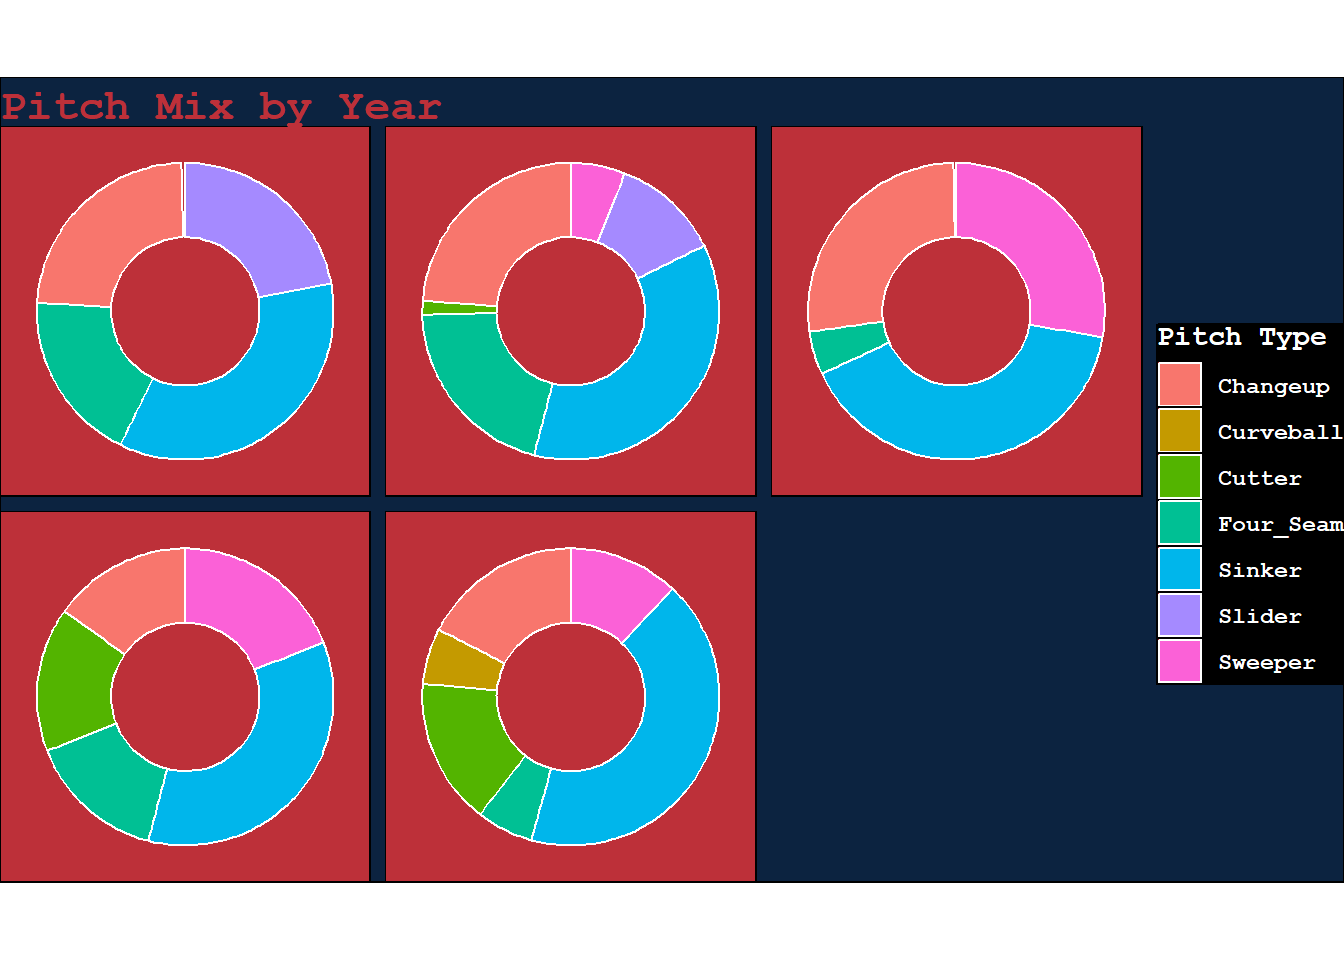
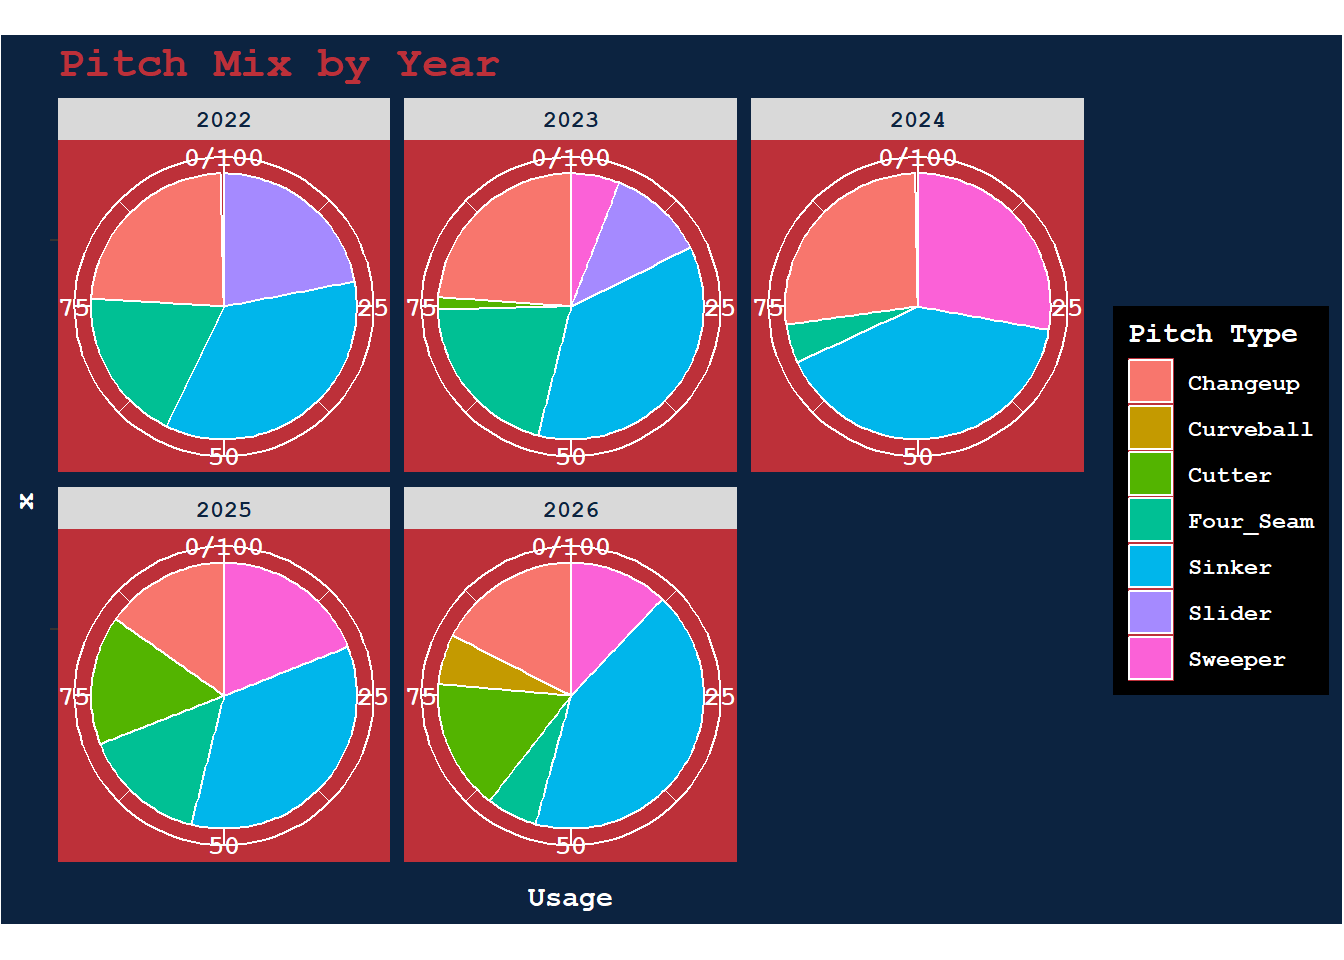
update bello article
Change pie chart, NYY chart, TOC color

diff --git a/docs/posts/bello_article_final.html b/docs/posts/bello_article_final.html
@@ -137,6 +137,11 @@ gtag('config', 'G-GGNXXW6FWM', { 'anonymize_ip': true});
    
   <ul class="collapse">
   <li><a href="#brayan-bello-has-been-sent-down-to-aaa-what-is-the-cause-for-his-disastrous-season-and-will-he-contribute-in-boston-in-2026" id="toc-brayan-bello-has-been-sent-down-to-aaa-what-is-the-cause-for-his-disastrous-season-and-will-he-contribute-in-boston-in-2026" class="nav-link active" data-scroll-target="#brayan-bello-has-been-sent-down-to-aaa-what-is-the-cause-for-his-disastrous-season-and-will-he-contribute-in-boston-in-2026">Brayan Bello has been sent down to AAA, what is the cause for his disastrous season and will he contribute in Boston in 2026?</a></li>
+  <li><a href="#the-yankee-killer" id="toc-the-yankee-killer" class="nav-link" data-scroll-target="#the-yankee-killer">The Yankee Killer</a></li>
+  <li><a href="#changeup-decay" id="toc-changeup-decay" class="nav-link" data-scroll-target="#changeup-decay">Changeup Decay</a></li>
+  <li><a href="#loss-of-command" id="toc-loss-of-command" class="nav-link" data-scroll-target="#loss-of-command">Loss of Command</a></li>
+  <li><a href="#an-ever-changing-mix" id="toc-an-ever-changing-mix" class="nav-link" data-scroll-target="#an-ever-changing-mix">An Ever Changing Mix</a></li>
+  <li><a href="#how-will-brayan-come-back-to-boston" id="toc-how-will-brayan-come-back-to-boston" class="nav-link" data-scroll-target="#how-will-brayan-come-back-to-boston">How will Brayan come back to Boston?</a></li>
   </ul>
 </nav>
     </div>
@@ -176,22 +181,44 @@ gtag('config', 'G-GGNXXW6FWM', { 'anonymize_ip': true});
 
 <section id="brayan-bello-has-been-sent-down-to-aaa-what-is-the-cause-for-his-disastrous-season-and-will-he-contribute-in-boston-in-2026" class="level2">
 <h2 class="anchored" data-anchor-id="brayan-bello-has-been-sent-down-to-aaa-what-is-the-cause-for-his-disastrous-season-and-will-he-contribute-in-boston-in-2026">Brayan Bello has been sent down to AAA, what is the cause for his disastrous season and will he contribute in Boston in 2026?</h2>
-<style>
-  body {
-    background-color: #0C2340; /* A light blue, for example */
-    font-family: 'Roboto', sans-serif;
-  }
-  
-  main.content {
-  background: rgba(255, 255, 255, 0.92);
-  padding: 2rem;
-  border-radius: 16px;
-  box-shadow: 0 8px 24px rgba(0,0,0,0.12);
-  max-width: 900px;     /* controls how wide the text block is */
-  margin: 2rem auto;    /* centers the rectangle */
+<style> 
+body { 
+  background-color: #0C2340; 
+  font-family: 'Roboto', sans-serif; 
+} 
+
+main.content { 
+  background: rgba(255, 255, 255, 0.92); 
+  padding: 2rem; 
+  border-radius: 16px; 
+  box-shadow: 0 8px 24px rgba(0,0,0,0.12); 
+  max-width: 900px; 
+  margin: 2rem auto; 
+}
+
+/* --- Added TOC Color Controls --- */
+#TOC, .toc-actions, #quarto-sidebar-toc-left {
+  color: #white !important; /* Main TOC text color */
+}
+
+#TOC a, .toc-actions a {
+  color: white !important; /* TOC links text color */
+  text-decoration: none;
+}
+
+#TOC a:hover, .toc-actions a:hover {
+  color: #BD3039 !important; /* Changes to red when you hover your mouse over it */
+}
+
+#TOC .active {
+  color: #BD3039 !important; /* Highlights active section in red as you scroll */
+  font-weight: bold;
 }
 </style>
 <p>The Boston Red Sox agreed to a 6-year extension, totalling $55 million with Brayan Bello prior to the 2024 season. Leading up to this extension, Bello was one of the most promising young arms on a Red Sox staff amongst a hodgepodge of older arms on one-year deals like Corey Kluber and James Paxton. The promise was there for the righty and he quickly worked his way into the hearts of the Red Sox faithful.</p>
+</section>
+<section id="the-yankee-killer" class="level2">
+<h2 class="anchored" data-anchor-id="the-yankee-killer">The Yankee Killer</h2>
 <p>In his first two years in the league, Bello seemed to relish getting the ball versus the most hated team in Boston, the New York Yankees. In his first 2 seasons, Bello went toe-to-toe with the Evil Empire five times and held an ERA of just 1.45 in those games. In 4 of those 5 starts he went +6 innings of allowing just 1 earned run. The excitement around Bello was palpable and Red Sox fans were itching for a dominant starter in the age when Chris Sale seemed to never get healthy. After the 2021 ALCS run, the Red Sox team ERA over the next two seasons was the 3rd highest in the American League, leading only the A’s and Royals. The newfound Yankee Killer had all of Boston behind him; some Bostonians even crowned him as the second coming of Pedro Martinez.</p>
 <div class="cell">
 <div class="cell-output-display">
@@ -212,6 +239,9 @@ gtag('config', 'G-GGNXXW6FWM', { 'anonymize_ip': true});
 </div>
 </div>
 </div>
+</section>
+<section id="changeup-decay" class="level2">
+<h2 class="anchored" data-anchor-id="changeup-decay">Changeup Decay</h2>
 <p>Bello’s changeup was a marvel when he was called up from Worcester in 2022. The pitch induced a swing-and-miss 44% of the time compared to the 30% league average. He allowed hard hit balls only once in a blue moon, coming at a rate of 16%, 6th lowest in MLB. Now as we progress to 2026, that changeup has become a husk of its former self. The 2026 whiff rate generated from the pitch is just 24%, well below the league average.</p>
 <div class="cell">
 <div class="cell-output-display">
@@ -232,6 +262,9 @@ gtag('config', 'G-GGNXXW6FWM', { 'anonymize_ip': true});
 </div>
 </div>
 </div>
+</section>
+<section id="loss-of-command" class="level2">
+<h2 class="anchored" data-anchor-id="loss-of-command">Loss of Command</h2>
 <p>The sinker for Bello is thrown around 40% of the time in 2026, but he does not seem to be comfortable throwing it. His location of the pitch is the worst of his career, only throwing it in the zone 51% of the time. Of sinkers thrown as the first pitch of a plate appearance, Bello has only thrown 75% in the zone. Which sounds decent enough, but most pitchers are in the zone 83% of the time throwing a first pitch sinker. A steady decrease in command of his most thrown pitch is a major warning sign for Bello’s productivity in the future.</p>
 <div class="cell">
 <div class="cell-output-display">
@@ -242,7 +275,10 @@ gtag('config', 'G-GGNXXW6FWM', { 'anonymize_ip': true});
 </div>
 </div>
 </div>
-<p>On June 5th, Craig Breslow said that he hopes that Brayan can find his love for baseball again. This was soon followed by Bello stating that he has, and always will, love the game. This disconnect between the Red Sox Chief Baseball Officer goes further than these dichotic statements. When Breslow took over the Red Sox front office in 2024, Bello’s whole approach and pitch mix changed. His four-seamer was dropped from his arsenal in favor of a sweeper that surpassed the usage of his changeup to become his number two pitch. In 2025 and 2026 the changeup was thrown the least of his career, in favor of a newly introduced cutter and the sweeper from 2024. All of this tinkering under Breslow surely led to some soul-searching for the young right-handed pitcher who identified so much with his changeup in his days on the farm. The lack of identity for Bello may play a part in his mental struggle to get control of his ever-changing arsenal.</p>
+</section>
+<section id="an-ever-changing-mix" class="level2">
+<h2 class="anchored" data-anchor-id="an-ever-changing-mix">An Ever Changing Mix</h2>
+<p>On June 5th, Craig Breslow said that he hopes that Brayan can find his love for baseball again. This was soon followed by Bello stating that he has, and will always, love the game. This disconnect between the Red Sox Chief Baseball Officer goes further than these dichotic statements. When Breslow took over the Red Sox front office in 2024, Bello’s whole approach and pitch mix changed. His four-seamer was dropped from his arsenal in favor of a sweeper that surpassed the usage of his changeup to become his number two pitch. In 2025 and 2026 the changeup was thrown the least of his career, in favor of a newly introduced cutter and the sweeper from 2024. All of this tinkering under Breslow surely led to some soul-searching for the young right-handed pitcher who identified so much with his changeup in his days on the farm. The lack of identity for Bello may play a part in his mental struggle to get control of his ever-changing arsenal.</p>
 <div class="cell">
 <div class="cell-output-display">
 <div>
@@ -252,7 +288,10 @@ gtag('config', 'G-GGNXXW6FWM', { 'anonymize_ip': true});
 </div>
 </div>
 </div>
-<p>Now, when can we expect Bello to find himself in Worcester and what steps will bring him back to Boston? There are obviously issues with his decaying arsenal, which have already been laid out, but how will Bello elude his first inning struggles? MLB hitting labs now have a read on Bello, to make him throw more pitches in the first. MLB hitters have become less aggressive against Bello in the first inning as the season has gone on. This lack of aggression leads to longer counts and gives a pitcher with a lack of focus more time to brood over his first inning complications. The issue isn’t that Bello can’t throw strikes in the first inning; it’s that hitters are patient enough to know there will be a quality pitch to hit if they are patient enough. The barrel rate allowed by Bello in the first inning is 11%, 8% higher than the rest of his innings of work combined. This patience from batters also leads to walks. If Bello wants to change the narrative of this season, he will have to bear down in the first innings. Challenging these batters that are waiting for a good pitch is what he needs to do. This may mean moving away from the sinker, which has been his comfort blanket his entire career.</p>
+</section>
+<section id="how-will-brayan-come-back-to-boston" class="level2">
+<h2 class="anchored" data-anchor-id="how-will-brayan-come-back-to-boston">How will Brayan come back to Boston?</h2>
+<p>Now, when can we expect Bello to find himself in Worcester and what steps will bring him back to Boston? There are obviously issues with his decaying arsenal, which have already been laid out, but how will Bello elude his first inning struggles? MLB hitting labs now have a read on Bello, to make him throw more pitches in the first. MLB hitters have become less aggressive against Bello in the first inning as the season has gone on. This lack of aggression leads to longer counts and gives a pitcher with a lack of focus more time to brood over his first inning complications. The issue isn’t that Bello can’t throw strikes in the first inning; it’s that hitters are patient enough to know there will be a quality pitch to hit if they see enough pitches. The barrel rate allowed by Bello in the first inning is 11%, 8% higher than the rest of his innings of work combined. This patience from batters also leads to walks. If Bello wants to change the narrative of this season, he will have to bear down in the first innings. Challenging these batters that are waiting for a good pitch is what he needs to do. This may mean moving away from the sinker, which has been his comfort blanket his entire career.</p>
 <p>In the first inning, the sinker is thrown in the zone 51% of the time but batters only swing on 39% of pitches. Alternatively the cutter is in the zone 54% of pitches and induces a swing 51% of pitches. Batters are too prepared for the sinker from Bello, so by mixing in the other fastball variant, hitters will not be able to sit back so easily. The cutter even generates a whiff on 52% of swings in the first inning. It will be difficult to dwindle the usage of his sinker, but for Bello a move away from his status quo may be what saves his career.</p>
 <div class="cell">
 <div class="cell-output-display">
@@ -263,6 +302,7 @@ gtag('config', 'G-GGNXXW6FWM', { 'anonymize_ip': true});
 </div>
 </div>
 </div>
+<p>I will keep an eye on Bello’s usage of his cutter and sinker while down on the farm.</p>
 
 
 </section>

diff --git a/docs/blog.html b/docs/blog.html
@@ -218,7 +218,7 @@ window.Quarto = {
 
 <div class="quarto-listing quarto-listing-container-default" id="listing-listing">
 <div class="list quarto-listing-default">
-<div class="quarto-post image-right" data-index="0" data-listing-date-sort="1781064000000" data-listing-file-modified-sort="1781194953852" data-listing-date-modified-sort="NaN" data-listing-reading-time-sort="22" data-listing-word-count-sort="4243">
+<div class="quarto-post image-right" data-index="0" data-listing-date-sort="1781064000000" data-listing-file-modified-sort="1781272894731" data-listing-date-modified-sort="NaN" data-listing-reading-time-sort="22" data-listing-word-count-sort="4268">
 <div class="thumbnail">
 <p><a href="./posts/bello_article_final.html" class="no-external"></a></p><a href="./posts/bello_article_final.html" class="no-external">
 <p><img loading="lazy" src="./images/bello_head.png" class="thumbnail-image"></p>